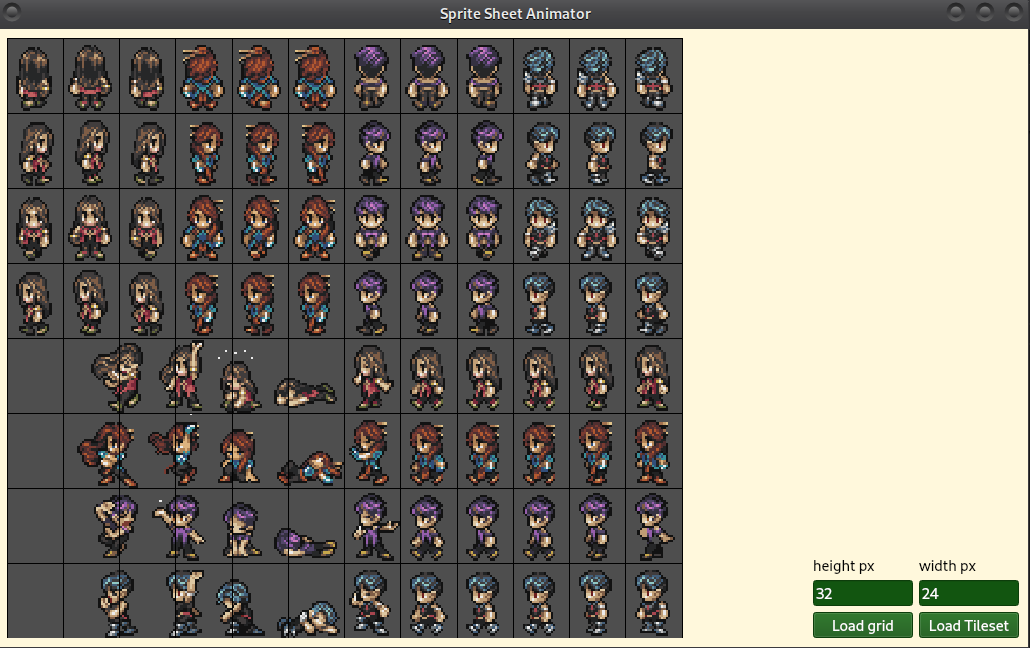
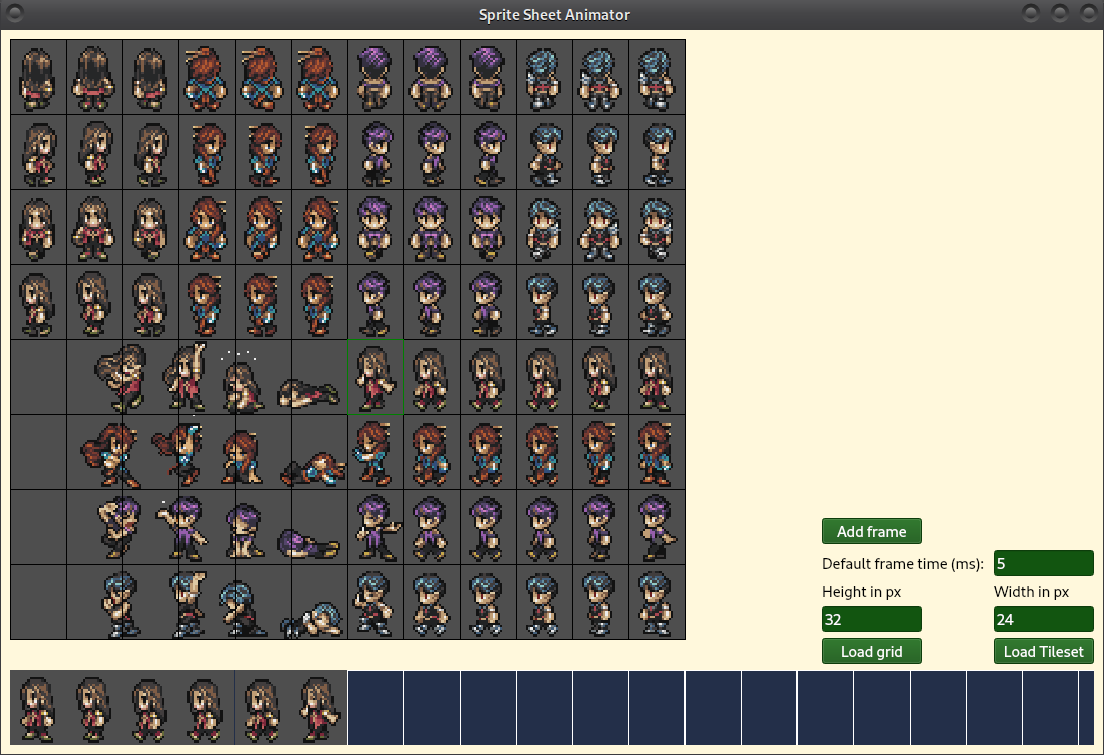
Add in frame selection

diff --git a/src/sprite_events/draw_frame_editor.ts b/src/sprite_events/draw_frame_editor.ts
@@ -1,13 +1,17 @@
-import { QPainter } from "@nodegui/nodegui";
-import { FrameEditor } from "interface/interface";
+import { QPainter, QImage } from "@nodegui/nodegui";
+import { AnimationStructure } from "data_structures/AnimationStructure";
+import { FrameEditor, SpriteSheetEditor } from "interface/interface";
 
 /**
  * Handles the drawing of the frame editor.
  * @param editor 
  */
 export function draw_frame_editor(frame_editor: FrameEditor) {
-	let width = global.editor.area.width;
-	let height = global.editor.area.height;
+	const editor: SpriteSheetEditor = global.editor;
+	const anime: AnimationStructure = global.anime;
+
+	let width = editor.area.width;
+	let height = editor.area.height;
 
 	if(!width) width = 100;
 	if(!height) height = 100;
@@ -17,7 +21,16 @@ export function draw_frame_editor(frame_editor: FrameEditor) {
 	frame_editor.setFixedHeight(height);
 
 	for(let i = 0; (i * width) - width < frame_editor.width(); i++) {
-		painter.drawRect(0, 0, i * width, height);
+		const frame_i = anime.current_animation.frames[i];
+
+		if(frame_i) {
+			let x = frame_i.s_coord.x / frame_i.area.width;
+			let y = frame_i.s_coord.y / frame_i.area.height;
+
+			painter.drawPixmap(i * width, 0, editor.widgets.scaled_image, x * editor.area.width, y * editor.area.height, editor.area.width, editor.area.height )
+		} else {
+			painter.drawRect(i * width, 0, i * width, height);
+		}
 	}
 	painter.end();
 }

diff --git a/src/interface/SpriteSheetEditor.ts b/src/interface/SpriteSheetEditor.ts
@@ -9,7 +9,7 @@ import { NativeRawPointer } from "@nodegui/nodegui/dist/lib/core/Component";
  */
 export class SpriteSheetEditor extends BaseInterface {
 	widgets: SpriteSheetEditorWidgets;
-	area: Area;
+	area: Area; // Area of individual grids. TODO: Better label this.
 	selected_frame: Coordinate;
 	/**
 	 * Creates an instance of FileEditor.

diff --git a/README.md b/README.md
@@ -1,24 +1,25 @@
 # sprite-sheet-animator
 
 ![screenshot of sprite sheet animator](screen.png)
-Currently in active development. Not accepting pull requests until first release is complete.\n
-Animate sprites and save to json. \n
+Currently in active development. \
+Animate sprites and save to json. \
+Create animations from spritesheets. \
 This is meant to configure an animation based on a sprite sheet. Then save the information; like time between frames and which frames to display into a JSON data structure so that you can allow someone to help you animate characters. Or allow people to add in custom animations into your games without altering the source code (Mods perhaps).
 
 -   [x] Create basic user interface
 -   [x] load and scale image
 -   [x] configure tile size and draw grid
 -   [x] add other configuration options to ui.
--   [] select tiles to put in animation
+-   [x] select tiles to put in animation
+-   [x] add time in between frames
+-   [x] allow frames to be tagged
 -   [] rearrange frames
--   [] add time in between frames
--   [] allow frames to be tagged
 -   [] export animation information to a json data structure
 -   [] preview animation in tool
 
-# Beyond scope for now but might be done in the future.
+# Not needed for my project. But if interest is high I might be done in the future.
 
--   [] allow scaling animations
+-   [] allow translation animations.
 -   [] add layers to animate two frames at the same time (Like a hat)
 
 # Build instructions for non vscode users.
